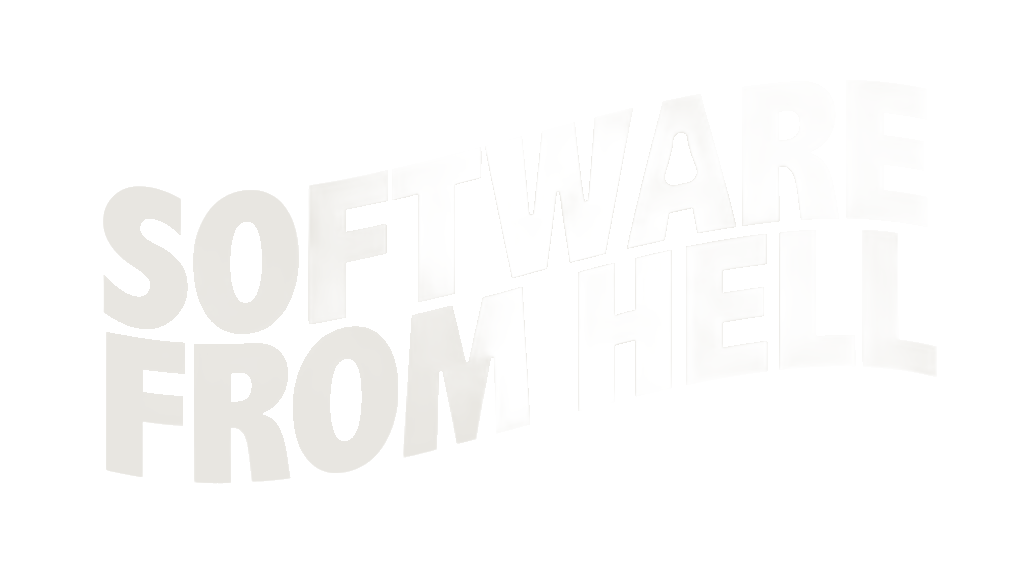
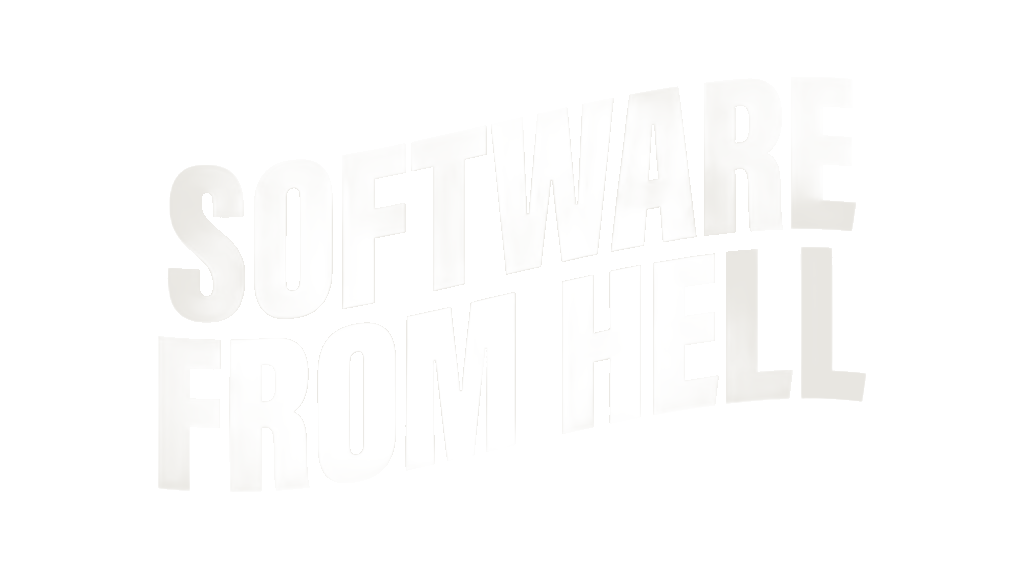
Hero v4: single-arc baseline (clean letterforms) + live CSS quiver

diff --git a/index.html b/index.html
@@ -72,6 +72,13 @@
         height: auto;
         max-width: 40rem;
         margin: 0 auto;
+        animation: quiver 0.9s steps(2) infinite;
+      }
+      @keyframes quiver {
+        0%, 100% { transform: translate(0, 0) rotate(0deg); }
+        25% { transform: translate(-1.5px, 1px) rotate(-0.4deg); }
+        50% { transform: translate(1.5px, -1px) rotate(0.3deg); }
+        75% { transform: translate(-1px, -1.5px) rotate(0.5deg); }
       }
       .tagline {
         max-width: 38rem;
@@ -210,6 +217,11 @@
       @media (max-width: 48rem) {
         .tapes {
           grid-template-columns: 1fr;
+        }
+      }
+      @media (prefers-reduced-motion: reduce) {
+        .hero-art {
+          animation: none;
         }
       }
     </style>
